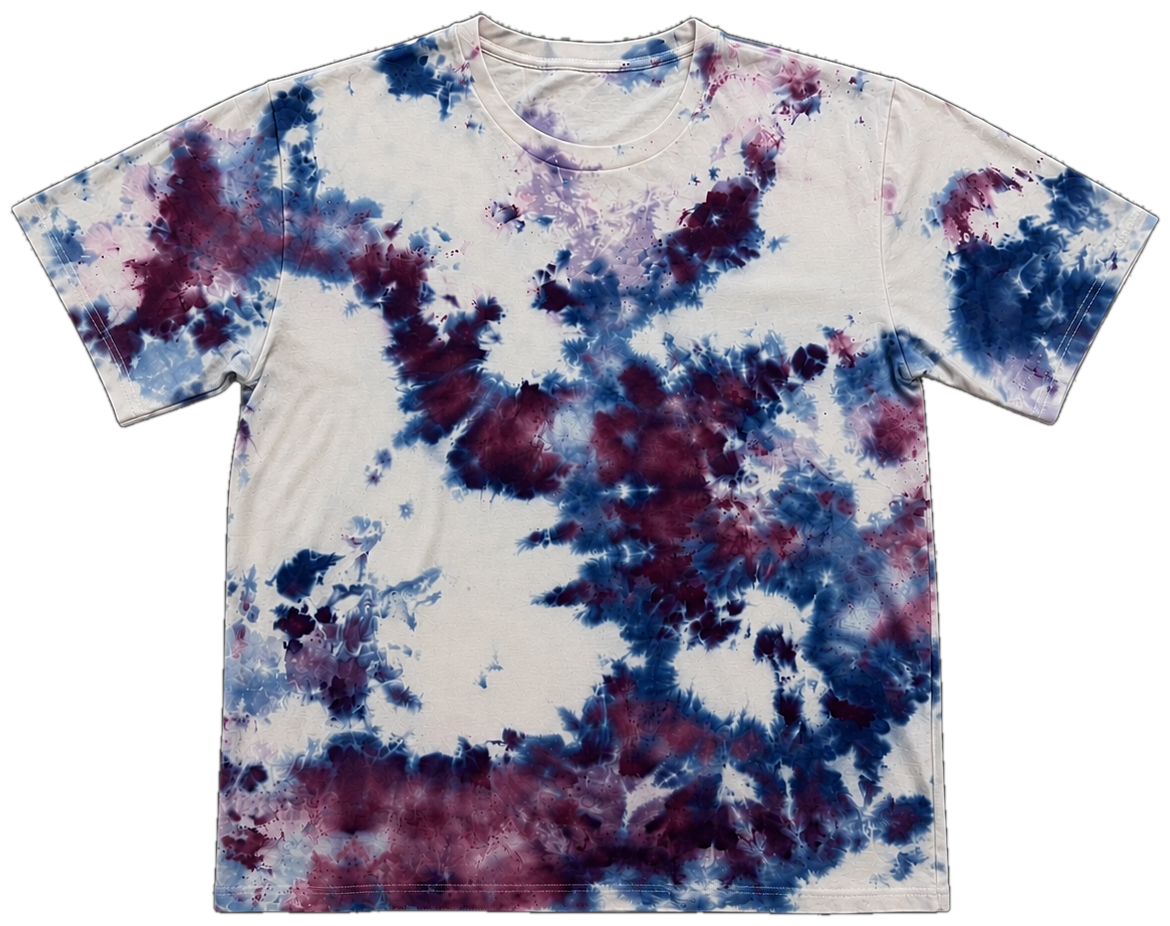
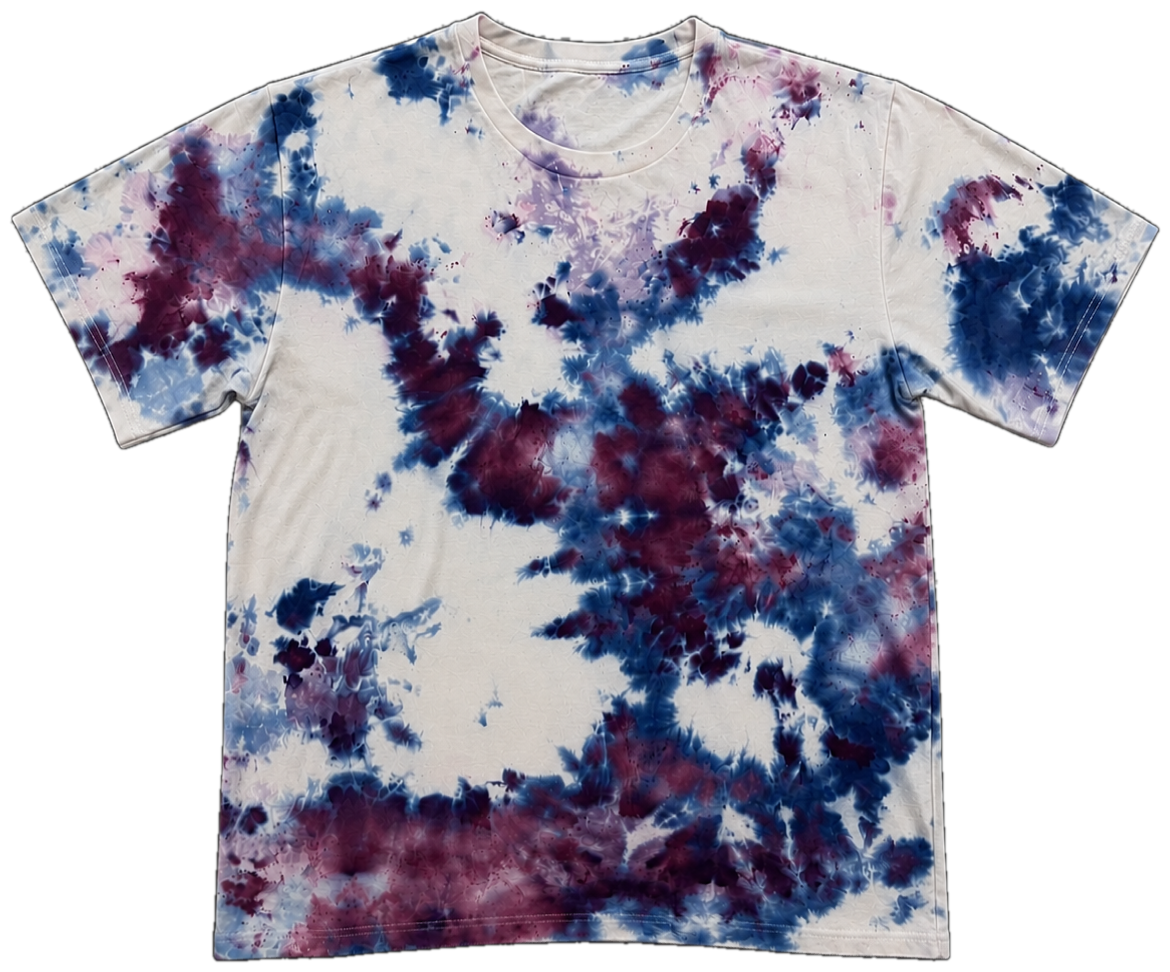
Tighten photo-to-text gap in catalog/carousel; swap tee-03 photo
Real product photos are landscape (~6:5), not the card media box's
portrait 3:4 — left at 3:4, object-fit: contain centered them with
dead space above/below inside the box before the card's own gap to
the name even started, reading as a much bigger photo-to-text gap
than intended. .has-photo now gets its own 6:5 aspect-ratio, and the
card gap is trimmed further on top of that.

Also replaces tee-03-berry-navy.png with the site owner's updated
photo (same background-removal process, see assets/products/README.md).

Claude-Session: https://claude.ai/code/session_015iBL23xP7qtUkpapUhGWfQ

diff --git a/tie-dye-brand/css/style.css b/tie-dye-brand/css/style.css
@@ -1608,7 +1608,7 @@ body.nav-open { overflow: hidden; }
   display: flex;
   flex-direction: column;
   align-items: center;
-  gap: 0.75rem;
+  gap: 0.35rem;
   text-align: center;
 }
 
@@ -1643,7 +1643,13 @@ body.nav-open { overflow: hidden; }
    and .collection-preview-media.has-photo: no dashed placeholder
    border, full opacity, object-fit: contain so the cutout's own
    silhouette shows in full instead of being cropped to a rectangle. */
+/* The actual photos are landscape (~6:5), not the placeholder box's
+   portrait 3:4 — left at 3:4, object-fit: contain would center the
+   image with a lot of dead vertical space above/below it inside the
+   box, on top of the card's own gap to the name/price below, reading
+   as a much bigger photo-to-text gap than intended. */
 .catalog-card-media.has-photo {
+  aspect-ratio: 6 / 5;
   border: none;
   opacity: 1;
 }
@@ -3006,7 +3012,7 @@ body.nav-open { overflow: hidden; }
   display: flex;
   flex-direction: column;
   align-items: center;
-  gap: 0.85rem;
+  gap: 0.4rem;
   flex: 0 0 78vw;
   max-width: 19rem;
   scroll-snap-align: start;
@@ -3206,7 +3212,12 @@ body.nav-open { overflow: hidden; }
    a real photo) — the whole-card resting-vs-active scale
    (.collection-preview-card, above) still applies to photos too, same
    "this is the centered card" cue it gives placeholders. */
+/* Same reasoning as .catalog-card-media.has-photo: the actual photos
+   are landscape (~6:5), not this box's portrait 3:4, so left alone
+   object-fit: contain would center them with dead space above/below
+   inside the box before the card's own gap to the name even starts. */
 .collection-preview-media.has-photo {
+  aspect-ratio: 6 / 5;
   border: none;
   opacity: 1;
 }
